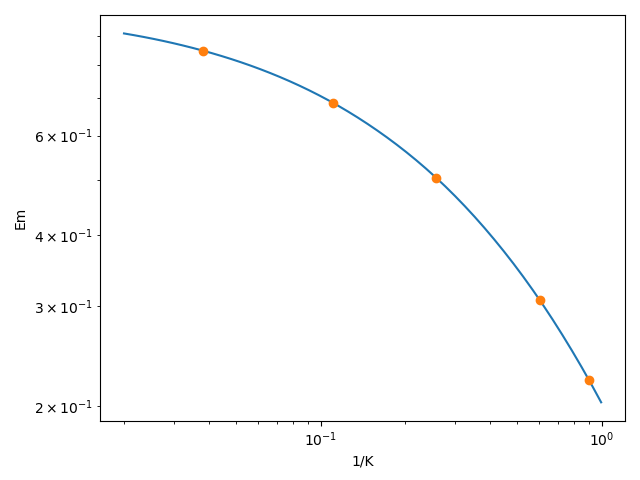
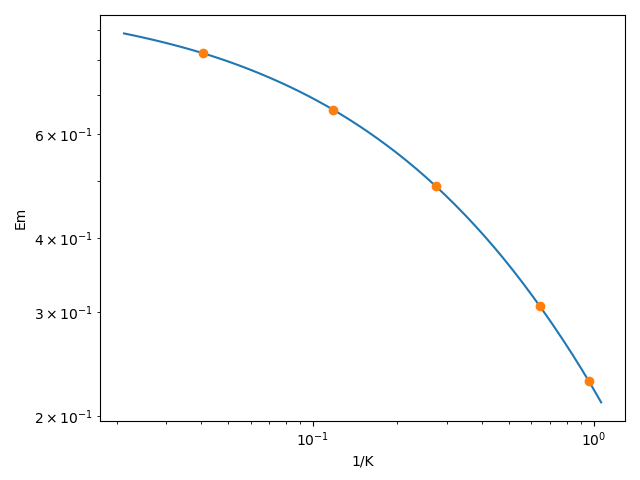
Update NACA-RM-E53D23

diff --git a/content/NACA-RM-E53D23.md b/content/NACA-RM-E53D23.md
@@ -3,7 +3,7 @@ Category: NACA
 tags: cylinder  
 status: draft
 
-###"The meteorological data obtained with the multicylinder method are the only data available for the design of ice-protection equipment for aircraft"  
+> ###"The meteorological data obtained with the multicylinder method are the only data available for the design of ice-protection equipment for aircraft"  
 
 #"Procedure for Measuring Liquid-Water Content and Droplet Sizes in Super-cooled Clouds by Rotating Multicylinder Method"[^1]
 
@@ -14,7 +14,7 @@ Detailed procedures for the use of multicylinders are described.
 
 ##Key points  
 1. Detailed procedures for the in-flight use of multicylinders are described.
-2. Detailed procedures for analyzing results from of multicylinders are described, with specific examples.
+2. Detailed procedures for analyzing results from of multicylinders are described, with a flight data case.
 
 ##Abstract
 
@@ -26,6 +26,15 @@ of calculating the results, including necessary charts and tables,
 are presented.
 
 ##Discussion
+
+###Procedures
+
+A set of rotating cylinders were constructed for use in flight. 
+A picture of the cylinders deployed on an aircraft is shown above. 
+
+For this study, the assembly had five cylinders, as shown below.
+
+![Figure 3. - Assembled set of cylinders.](images/naca-rm-e53d23/Figure 3.png)  
 
 The steps for in-flight measurements are detailed:
 
@@ -45,6 +54,8 @@ ice collected on eacn cylinder with theoretical computations
 for comparable cylinders and comparable flight and atmospheric conditions   
 
 > These basic steps are discussed in detail in subsequent sections.
+
+###Analysis
 
 The impingement tables from the recently published [NACA-TN-2904]({filename}NACA-TN-2904.md) [^2] 
 were used in the analysis of the measured cylinder data. 
@@ -66,9 +77,26 @@ Table I final result: MVD=13.7 micrometer, LWC=0.30 g/m^3, Langmuir E distributi
 
 Table IV final result: MVD=14.1 micrometer, LWC=0.30 g/m^3, Langmuir E distribution.  
 
+For the implementation of the NACA-TN-2904 impingment data, the analysis yields slightly different best fit results 
+(file naca_rm_e53d23.py in [^3]) (The "RSS" value noted is a measure of the error of the fit).
+
+![Calculated best fits to the measured cyllinder masses (summarized in the table below)](images/naca-rm-e53d23/NACA-RM-53D23_mvd_lwc.png)
+
+In the review of [NACA-TN-2904]({filename}NACA-TN-2904.md) impingement results were compared to Langmuir and Blodgett [^]. 
+It was also noted that Langmuir and Blodgett had an approximation, which can be corrected. 
+A comparison of results with the different methods is shown below.
+
+Method                     |MVD |LWC |Distribution
+---                        |--- |--- |---
+Table I                    |13.7|0.30|Langmuir E
+Table IV                   |14.1|0.30|Langmuir E
+NACA-TN-2904 implementation|14.6|0.28|Langmuir E
+Langmuir implementation    |15.2|0.30|Langmuir D
+Langmuir corrected         |15.2|0.30|Langmuir E
+
 ##Conclusions
 
-The limitations of the multicylinder method are summarized in the Conculsions:
+The limitations of the multicylinder method were summarized in the Conculsions:
 
 > The rotating multicylinder method for determining cloud-droplet
 size and liquid-water content has several inherent disadvantages; however, 
@@ -106,7 +134,7 @@ NACA-RM-E52D23 cites 6 publications:
 - Neel, Carr B., Jr., Bergrun, Norman R., Jukoff, David, and Schlaff, Bernard A.: The Calculation of the Heat Required for Wing Thermal Ice Prevention in Specified Icing Conditions. NACA-TN-1472, 1947.
 - Fraser, D., Rush, C. K., and Baxter, D. C.: Thermodynamic Limitations of Ice Accretion Instruments. Nat. Aero. Establishment, Ottawa (Canada), LR-32, Aug. 22, 1952.
 
-NACA-RM-E53D23 is cited 5 times in the NACA Icing Publications Database [^3]:
+NACA-RM-E53D23 is cited 5 times in the NACA Icing Publications Database [^4]:
 
 - Dorsch, Robert G., and Brun, Rinaldo J.: Variation of Local Liquid-Water Concentration about an Ellipsoid of Fineness Ratio 5 Moving in a Droplet Field. NACA-TN-3153, 1954.
 - Gelder, Thomas F., Smyers, William H., Jr., and von Glahn, Uwe H.: Experimental Droplet Impingement on Several Two-Dimensional Airfoils with Thickness Ratios of 6 to 16 Percent. NACA-TN-3839, 1956.
@@ -114,17 +142,16 @@ NACA-RM-E53D23 is cited 5 times in the NACA Icing Publications Database [^3]:
 - Brun, Rinaldo J., and Vogt, Dorothea E.: Impingement of Cloud Droplets on 36_5-Percent-Thick Joukowski Airfoil at Zero Angle of Attack and Discussion of Use as Cloud Measuring Instrument in Dye-Tracer Technique. NACA-TN-4035, 1957.
 - Gelder, Thomas F.: Droplet Impingement and Ingestion by Supersonic Nose Inlet in Subsonic Tunnel Conditions. NACA-TN-4268, 1958.
 
-An online search found that NACA-RM-E53D23 is cited 8 times in the literature [^4]. 
+An online search found that NACA-RM-E53D23 is cited 8 times in the literature [^5]. 
 
 
 ##Notes:
 [^1]: Lewis, William, Perkins, Porter J., and Brun, Rinaldo J.: Procedure for Measuring Liquid-Water Content and Droplet Sizes in Super-cooled Clouds by Rotating Multicylinder Method. NACA-RM-E53D23, 1953.  
 [^2]: 
 Brun, Rinaldo J., and Mergler, Harry W.: Impingement of Water Droplets on a Cylinder in an Incompressible Flow Field and Evaluation of Rotating Multicylinder Method for Measurement of Droplet-Size Distribution, Volume-Median Droplet Size, and Liquid-Water Content in Clouds. NACA-TN-2904, 1953.  
-
-[^3]:
+[^3]: [https://github.com/icinganalysis/icinganalysis.github.io](https://github.com/icinganalysis/icinganalysis.github.io)   
+[^4]:
 [NACA Icing Publications Database]({filename}naca icing publications database.md)  
-[^4]: 
+[^5]: 
 https://scholar.google.com/scholar?hl=en&as_sdt=0%2C48&q=NACA-RM-E53D23&btnG=  
 
-[https://github.com/icinganalysis/icinganalysis.github.io](https://github.com/icinganalysis/icinganalysis.github.io)   

diff --git a/content/NACA-TN-2904.md b/content/NACA-TN-2904.md
@@ -7,8 +7,6 @@ status: draft
 
 #"Impingement of Water Droplets on a Cylinder in an Incompressible Flow Field and Evaluation of Rotating Multicylinder Method for Measurement of Droplet-Size Distribution, Volume-Median Droplet Size, and Liquid-Water Content in Clouds" [^1]
 
-![Water-drop-trajectory analog.](images/naca-tn-2904/Figure15.png)
-
 ##Summary
 Detailed water drop impingement analysis (independent of prior analysis) is presented.
 
@@ -16,6 +14,7 @@ Detailed water drop impingement analysis (independent of prior analysis) is pres
 1.  Detailed water drop impingement analysis (independent of prior analysis) is presented
 2.  Error estimates are detailed.
 3.  Detailed Beta curves are provided.
+4.  A difference from Langmuir and Blodgett for drop size distributions calculations is noted.
 
 ##Abstract
 > Evaluation of the rotating multicylinder method for the measurement
@@ -62,7 +61,8 @@ Appendix A of NACA-TN-2904 provides much detail.
 mechanical analogy are reviewed herein, and a machine setup together
 with all the pertinent computations involved for a representative trajectory are presented.  
 
-In Figure 15 below, two people turn the input cranks to produce output rotation on the pen plotter in the middle. 
+In Figure 15 below, two investigators turn the input cranks to produce output rotation on the pen plotter in the middle. 
+_(Unfortunately, their names were not recorded in NACA-TN-2904.)_
 
 ![Water-drop-trajectory analog.](images/naca-tn-2904/Figure15.png)
 
@@ -91,10 +91,7 @@ because the sensitivity of the rotating multicylinder method in
 its application does not permit wide tolerances in the theoretical data.  
 
 Accuracy was emphasised, and the final results are slightly different than those in [^2]. 
-
 But it is not clear from the data presented in NACA-TN-2904 that it is more accurate than [^2]. 
-And even with "modern" data it is difficult to determine that one method is substantially more accurate than the other. 
-This will be the subject of a future post. 
  
 ###Error estimates
 
@@ -159,25 +156,31 @@ Phi|K|Beta_o|Beta_o|
 10000|3.24|_0.68_|.580|
 10000|16|0.880|.832|
 
-I do not know of contemporaneous data that could resolve which method is more accurate. 
-There is data from the post-NACA era, which will be examined in a planned post 
-near the end of the [cylinder thread]({filename}Icing on Cylinders.md). 
+###A difference from Langmuir and Blodgett for drop size distributions calculations
 
-<style>
-details.spoiler summary::after {
-  content: var(--hidden);
-  filter: blur(6px);
-  display: block;
-}
-details[open] summary::after {
-  display: none;
-}
-</style>
-<details class="spoiler" style="--hidden: 'No peaking!'">
-  <summary>Spoiler alert!:</summary>
-  <div>Bet on Langmuir and Blodgett</div>
-</details>
-<br>
+As noted in NACA-TN-2904, for drop size distributions Langmuir and Blodgett [^2] used an approximation, 
+using the k\*phi value for the MVD for every drop size bin when calculating the weighted Em value. 
+This means essentially that for part of the calculation (the k\*phi value) the MVD drop size was used for every bin, 
+and for the other part (the k value) the drop size was unique for each bin.
+A more technically correct implementation is to have a unique k\*phi value for each bin
+(both the k and the k\*phi parts). 
+I could not find in Langmuir and Blodgett where they were explicit about this detail of their method, 
+and it was an astute observations made in NACA-TN-2904 to notice this. 
+
+Both the original Langmuir and Blodgett multicylinder calculations, 
+and a version with unique k\*phi for each bin were implemented in 
+["Implementation of cylinder impingement correlations in Python"]({filename}Implementation of cylinder impingement correlations in Python.md).
+A comparison to Table XI values of [^2] verifies that the "k\*phi value for the MVD" method was used.
+
+We will see a comparison of results of the different methods for a multicylnder case in the upcoming review of NACA-RM-E53D23.
+
+### Conclusions
+
+It is not clear from the data presented in NACA-TN-2904 that its method is more accurate than Langmuir and Blodgett [^2].
+I do not know of contemporaneous data that could resolve which method is more accurate.
+And even with data from the post-NACA era it is difficult to determine that one method is 
+substantially more accurate than the other. 
+This will be the subject of a future post. 
 
 ##Citations
 

diff --git a/content/Icing on Cylinders.md b/content/Icing on Cylinders.md
@@ -128,11 +128,20 @@ _NACA-TN-2904 "Impingement of water droplets on a cylinder in an incompressible 
 >  1.  Detailed water drop impingement analysis (independent of prior analysis) is presented
 >  2.  Error estimates are detailed.
 >  3.  Detailed Beta curves are provided.
+>  4.  A difference from Langmuir and Blodgett for drop size distributions calculations is noted.
+
 -->
 
 ![A drawing of an airplane with a mutlicylinder instrument protruding up from the top of the fuseloge, Figure 1 of NACA-TN-2904](images/naca-tn-2904/Figure1.png)  
 
 _NACA-RM-E53D23 "Procedure for Measuring Liquid-Water Content and Droplet Sizes in Super-cooled Clouds by Rotating Multicylinder Method" (planned)_  
+<!--
+[NACA-RM-E53D23 "Procedure for Measuring Liquid-Water Content and Droplet Sizes in Super-cooled Clouds by Rotating Multicylinder Method"]({filename}NACA-RM-E52D23.md)  
+>  1. Detailed procedures for the in-flight use of multicylinders are described.  
+>  2. Detailed procedures for analyzing results from of multicylinders are described, with a flight data case.  
+
+-->
+
 
 ![A photo of airplane with a mutlicylinder instrument protruding up from the top of the fuseloge, Figure 1 of NACA-RM-E53D23](images/naca-rm-e53d23/Figure1.png)  
 
